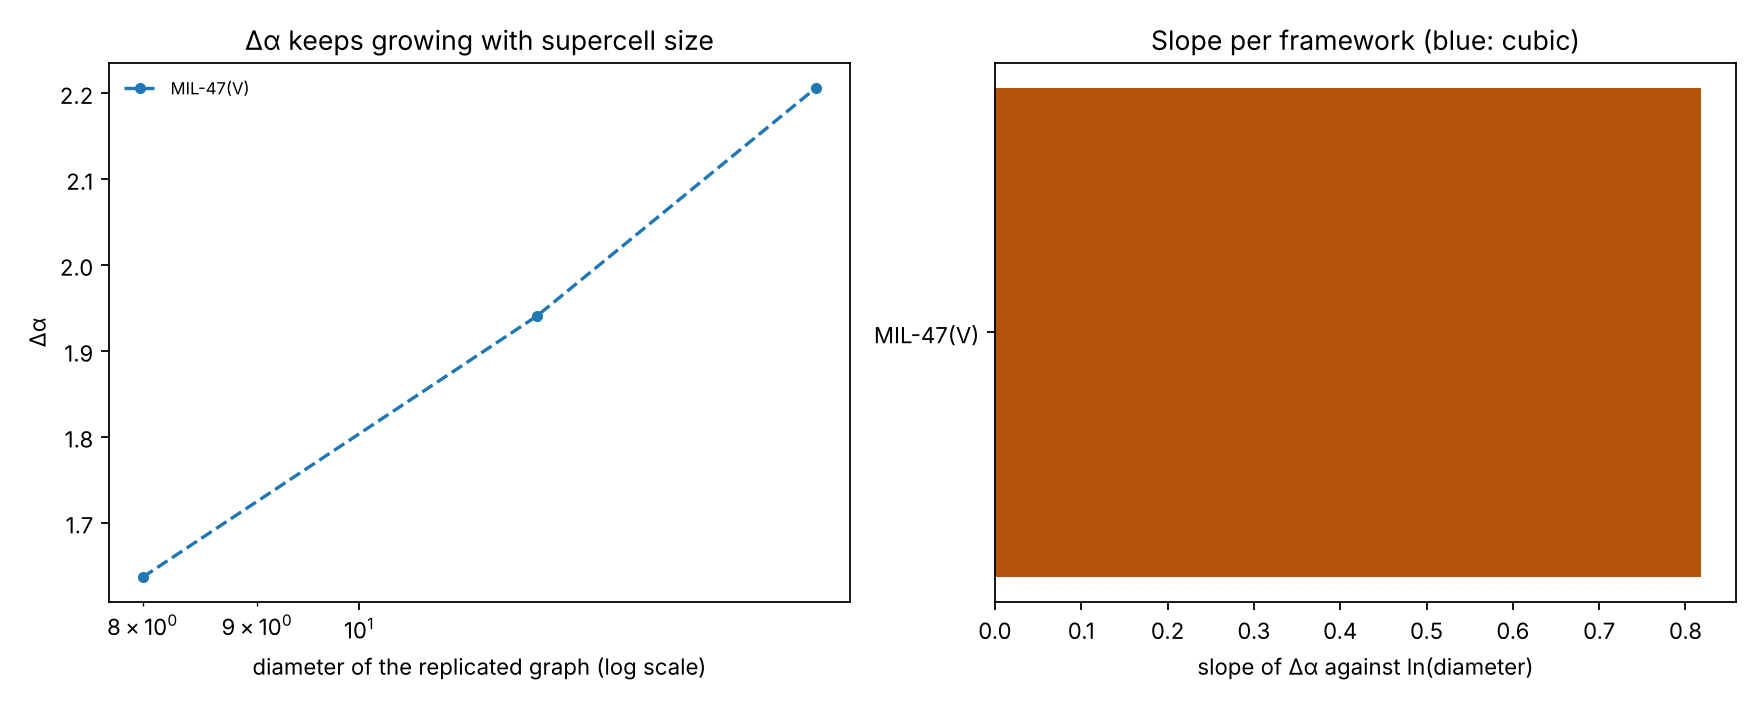
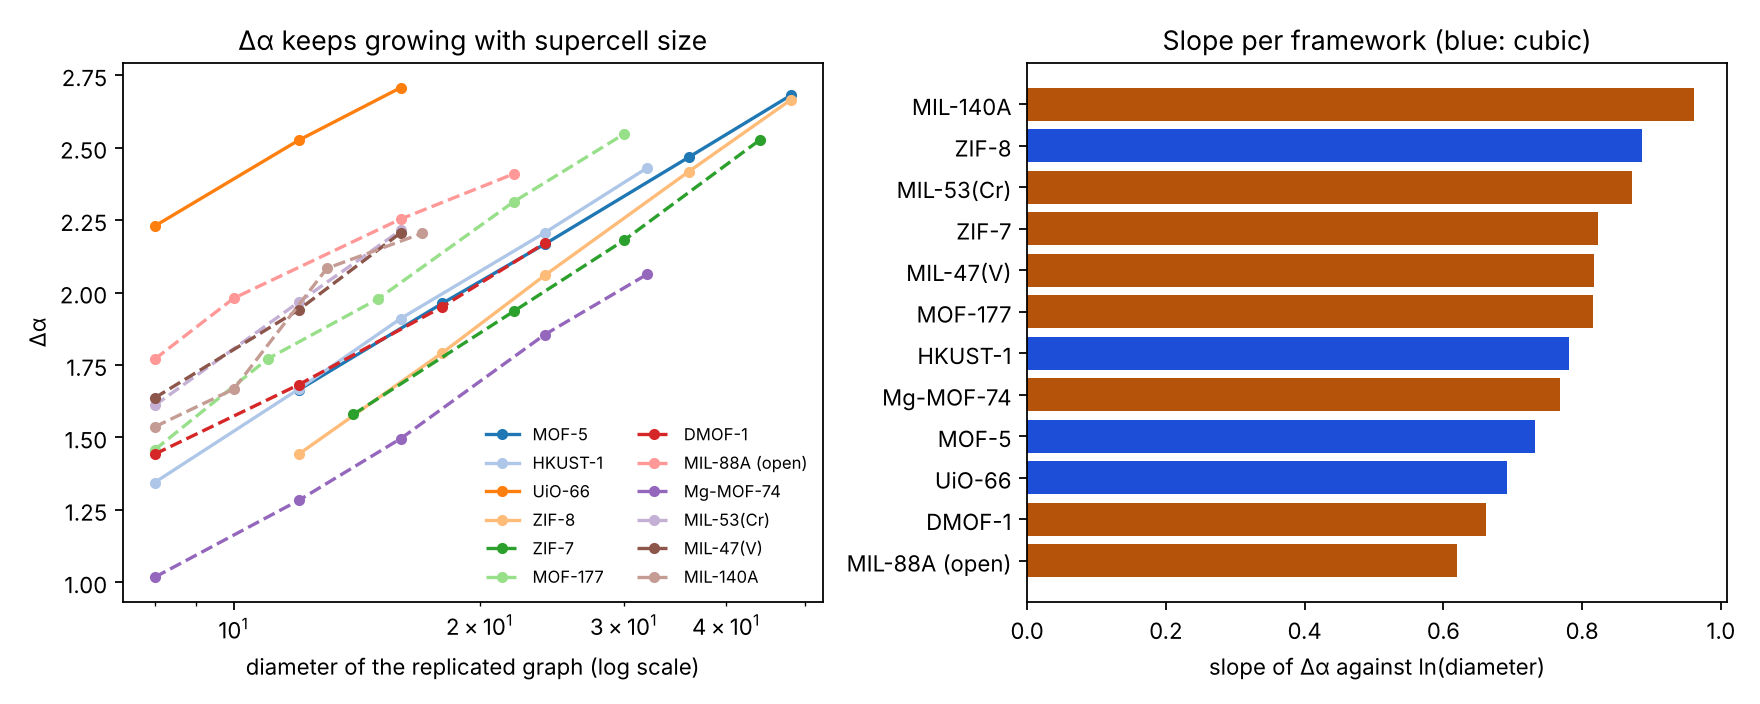
Twelve-framework size study: MIL-140A added, Results section written; all twelve keep growing with supercell size

diff --git a/website/results.html b/website/results.html
@@ -182,6 +182,47 @@
       <p style="font-size:13px;color:var(--muted2);margin-top:6px;">&Delta;&alpha; itself, at every diameter tested, is plotted in the figure above &mdash; not repeated here as text. The UiO-66 line rests on three supercells only (diameters 8, 12, 16), so its R&sup2; says little; the other three nets have five each (<code>data/spectrum_descriptors/size_scaling/convergence_sweep.json</code>).</p>
     </div>
 
+    <!-- diverse-set:start -->
+    <h3 class="sub-head" id="diverse-set">Twelve frameworks, not four</h3>
+    <p class="sd">The four demonstration nets are all cubic and all have finite clusters as nodes. The same sweep was rerun
+      (<code>code/spectrum_pipeline/code_20_diverse_set.py</code>, the same settings) on twelve frameworks that differ in metal
+      (Zn, Cu, Zr, Mg, Cr, V, Fe), node (single atom, paddlewheel, Zn<sub>4</sub>O, Zr<sub>6</sub>, Fe<sub>3</sub>O, infinite
+      metal&ndash;oxide chains), linker and lattice. The four original slopes are reproduced exactly. On every one of the
+      12 frameworks with at least three usable supercells, &Delta;&alpha; again grows as a straight line in ln(diameter)
+      (R&sup2; 0.949&ndash;1.000), and the drift between the two largest supercells is 5.5&ndash;13.7 %,
+      above the 5 % tolerance everywhere. The slope ranges from 0.62 to 0.96
+      (cubic 0.69&ndash;0.89; non-cubic 0.62&ndash;0.96). The conclusion above therefore does not
+      depend on having chosen four cubic nets: no framework in this set gives a &Delta;&alpha; that settles.</p>
+    <figure class="fig wide">
+      <img src="figures/diverse_set_figure.png" alt="Left: Delta-alpha against graph diameter on a log scale for twelve frameworks, every line rising. Right: the fitted slope for each framework, cubic in blue, non-cubic in orange.">
+      <figcaption>&Delta;&alpha; against the diameter of the replicated quotient graph for twelve frameworks (solid: cubic; dashed: non-cubic), and the fitted slope of each.
+        Generated by <code>code/spectrum_pipeline/code_20_diverse_set.py</code>; numbers in <code>data/spectrum_descriptors/size_scaling/diverse_set.json</code>.</figcaption>
+    <p class="provenance"><b>Source:</b> <a href="https://github.com/Radha-Krishna-19/fyp/blob/main/code/spectrum_pipeline/code_20_diverse_set.py"><code>code/spectrum_pipeline/code_20_diverse_set.py</code></a>; data: <a href="https://github.com/Radha-Krishna-19/fyp/blob/main/data/spectrum_descriptors/size_scaling/diverse_set.json"><code>data/spectrum_descriptors/size_scaling/diverse_set.json</code></a>.</p></figure>
+    <div class="table-wrap">
+      <table class="data-table" id="diverse-set-table">
+        <thead><tr><td>Structure</td><td>Node</td><td>Lattice</td><td>Node / linker blocks per cell</td><td>Node degree</td><td>Slope, &Delta;&alpha; vs ln(D)</td><td>Diameters</td><td>R&sup2;</td><td>Drift, last two</td></tr></thead>
+        <tbody>
+          <tr><td class="dt-label">MOF-5</td><td class="dt-note">Zn4O cluster</td><td class="dt-note">cubic</td><td class="dt-value">8 / 24</td><td class="dt-value">6</td><td class="dt-value">0.732</td><td class="dt-note">12&ndash;48</td><td class="dt-value">1.000</td><td class="dt-value">8.0 %</td></tr>
+          <tr><td class="dt-label">HKUST-1</td><td class="dt-note">Cu2 paddlewheel</td><td class="dt-note">cubic</td><td class="dt-value">6 / 8</td><td class="dt-value">4</td><td class="dt-value">0.782</td><td class="dt-note">8&ndash;32</td><td class="dt-value">0.999</td><td class="dt-value">9.2 %</td></tr>
+          <tr><td class="dt-label">UiO-66</td><td class="dt-note">Zr6 cluster</td><td class="dt-note">cubic</td><td class="dt-value">1 / 6</td><td class="dt-value">12</td><td class="dt-value">0.692</td><td class="dt-note">8&ndash;16</td><td class="dt-value">0.998</td><td class="dt-value">6.7 %</td></tr>
+          <tr><td class="dt-label">ZIF-8</td><td class="dt-note">single Zn atom</td><td class="dt-note">cubic</td><td class="dt-value">12 / 24</td><td class="dt-value">4</td><td class="dt-value">0.886</td><td class="dt-note">12&ndash;48</td><td class="dt-value">1.000</td><td class="dt-value">9.3 %</td></tr>
+          <tr><td class="dt-label">ZIF-7</td><td class="dt-note">single Zn atom</td><td class="dt-note">trigonal</td><td class="dt-value">18 / 36</td><td class="dt-value">4</td><td class="dt-value">0.824</td><td class="dt-note">14&ndash;44</td><td class="dt-value">0.999</td><td class="dt-value">13.7 %</td></tr>
+          <tr><td class="dt-label">MOF-177</td><td class="dt-note">Zn4O cluster</td><td class="dt-note">trigonal</td><td class="dt-value">8 / 16</td><td class="dt-value">6</td><td class="dt-value">0.816</td><td class="dt-note">8&ndash;30</td><td class="dt-value">0.997</td><td class="dt-value">9.2 %</td></tr>
+          <tr><td class="dt-label">DMOF-1</td><td class="dt-note">Zn2 paddlewheel</td><td class="dt-note">tetragonal</td><td class="dt-value">1 / 3</td><td class="dt-value">6</td><td class="dt-value">0.661</td><td class="dt-note">8&ndash;24</td><td class="dt-value">0.997</td><td class="dt-value">10.1 %</td></tr>
+          <tr><td class="dt-label">MIL-88A (open)</td><td class="dt-note">Fe3O trimer</td><td class="dt-note">hexagonal</td><td class="dt-value">2 / 6</td><td class="dt-value">6</td><td class="dt-value">0.619</td><td class="dt-note">8&ndash;22</td><td class="dt-value">0.986</td><td class="dt-value">6.5 %</td></tr>
+          <tr><td class="dt-label">Mg-MOF-74</td><td class="dt-note">Mg-O chain (rod)</td><td class="dt-note">trigonal</td><td class="dt-value">6 / 9</td><td class="dt-value">8</td><td class="dt-value">0.768</td><td class="dt-note">8&ndash;32</td><td class="dt-value">0.997</td><td class="dt-value">10.1 %</td></tr>
+          <tr><td class="dt-label">MIL-53(Cr)</td><td class="dt-note">Cr-OH chain (rod)</td><td class="dt-note">monoclinic</td><td class="dt-value">2 / 4</td><td class="dt-value">8</td><td class="dt-value">0.872</td><td class="dt-note">8&ndash;16</td><td class="dt-value">1.000</td><td class="dt-value">11.2 %</td></tr>
+          <tr><td class="dt-label">MIL-47(V)</td><td class="dt-note">V=O chain (rod)</td><td class="dt-note">orthorhombic</td><td class="dt-value">2 / 4</td><td class="dt-value">8</td><td class="dt-value">0.818</td><td class="dt-note">8&ndash;16</td><td class="dt-value">0.996</td><td class="dt-value">12.1 %</td></tr>
+          <tr><td class="dt-label">MIL-140A</td><td class="dt-note">Zr-O chain (rod)</td><td class="dt-note">monoclinic</td><td class="dt-value">2 / 8</td><td class="dt-value">12, 14</td><td class="dt-value">0.961</td><td class="dt-note">8&ndash;17</td><td class="dt-value">0.949</td><td class="dt-value">5.5 %</td></tr>
+        </tbody>
+      </table>
+    </div>
+    <p class="sd">In the four rod MOFs (Mg-MOF-74, MIL-53, MIL-47, MIL-140A) the metal&ndash;oxide chain is infinite; the decomposition cuts it
+      into one node block per cell, joined to the next along the chain, so their node degree counts linkers and chain neighbours together.
+      A framework with fewer than three supercells above the diameter-8 gate (or below the 25&nbsp;000-vertex cap) has no fitted slope.</p>
+    <!-- diverse-set:end -->
+
+
     <div class="callout warn" data-kind="Caveat">
     <b>Know what this dataset is.</b> All 77 structures are named <code>hMOF-###</code> &mdash; they come from the <b>hypothetical MOF</b> database: <b>computer-generated candidate structures that have never been synthesised</b>. The notebook requested <code>CoREMOF 2019</code>, which is experimental, but the server returned hMOF records and nothing verified it. A check was added so this cannot recur silently.
     <ul style="margin:8px 0 0 18px;">

diff --git a/website/_build/content_source.html b/website/_build/content_source.html
@@ -1117,6 +1117,43 @@
     </div>
 
     <!-- diverse-set:start -->
+    <h3 class="sub-head" id="diverse-set">Twelve frameworks, not four</h3>
+    <p class="sd">The four demonstration nets are all cubic and all have finite clusters as nodes. The same sweep was rerun
+      (<code>code/spectrum_pipeline/code_20_diverse_set.py</code>, the same settings) on twelve frameworks that differ in metal
+      (Zn, Cu, Zr, Mg, Cr, V, Fe), node (single atom, paddlewheel, Zn<sub>4</sub>O, Zr<sub>6</sub>, Fe<sub>3</sub>O, infinite
+      metal&ndash;oxide chains), linker and lattice. The four original slopes are reproduced exactly. On every one of the
+      12 frameworks with at least three usable supercells, &Delta;&alpha; again grows as a straight line in ln(diameter)
+      (R&sup2; 0.949&ndash;1.000), and the drift between the two largest supercells is 5.5&ndash;13.7 %,
+      above the 5 % tolerance everywhere. The slope ranges from 0.62 to 0.96
+      (cubic 0.69&ndash;0.89; non-cubic 0.62&ndash;0.96). The conclusion above therefore does not
+      depend on having chosen four cubic nets: no framework in this set gives a &Delta;&alpha; that settles.</p>
+    <figure class="fig wide">
+      <img src="figures/diverse_set_figure.png" alt="Left: Delta-alpha against graph diameter on a log scale for twelve frameworks, every line rising. Right: the fitted slope for each framework, cubic in blue, non-cubic in orange.">
+      <figcaption>&Delta;&alpha; against the diameter of the replicated quotient graph for twelve frameworks (solid: cubic; dashed: non-cubic), and the fitted slope of each.
+        Generated by <code>code/spectrum_pipeline/code_20_diverse_set.py</code>; numbers in <code>data/spectrum_descriptors/size_scaling/diverse_set.json</code>.</figcaption>
+    </figure>
+    <div class="table-wrap">
+      <table class="data-table" id="diverse-set-table">
+        <thead><tr><td>Structure</td><td>Node</td><td>Lattice</td><td>Node / linker blocks per cell</td><td>Node degree</td><td>Slope, &Delta;&alpha; vs ln(D)</td><td>Diameters</td><td>R&sup2;</td><td>Drift, last two</td></tr></thead>
+        <tbody>
+          <tr><td class="dt-label">MOF-5</td><td class="dt-note">Zn4O cluster</td><td class="dt-note">cubic</td><td class="dt-value">8 / 24</td><td class="dt-value">6</td><td class="dt-value">0.732</td><td class="dt-note">12&ndash;48</td><td class="dt-value">1.000</td><td class="dt-value">8.0 %</td></tr>
+          <tr><td class="dt-label">HKUST-1</td><td class="dt-note">Cu2 paddlewheel</td><td class="dt-note">cubic</td><td class="dt-value">6 / 8</td><td class="dt-value">4</td><td class="dt-value">0.782</td><td class="dt-note">8&ndash;32</td><td class="dt-value">0.999</td><td class="dt-value">9.2 %</td></tr>
+          <tr><td class="dt-label">UiO-66</td><td class="dt-note">Zr6 cluster</td><td class="dt-note">cubic</td><td class="dt-value">1 / 6</td><td class="dt-value">12</td><td class="dt-value">0.692</td><td class="dt-note">8&ndash;16</td><td class="dt-value">0.998</td><td class="dt-value">6.7 %</td></tr>
+          <tr><td class="dt-label">ZIF-8</td><td class="dt-note">single Zn atom</td><td class="dt-note">cubic</td><td class="dt-value">12 / 24</td><td class="dt-value">4</td><td class="dt-value">0.886</td><td class="dt-note">12&ndash;48</td><td class="dt-value">1.000</td><td class="dt-value">9.3 %</td></tr>
+          <tr><td class="dt-label">ZIF-7</td><td class="dt-note">single Zn atom</td><td class="dt-note">trigonal</td><td class="dt-value">18 / 36</td><td class="dt-value">4</td><td class="dt-value">0.824</td><td class="dt-note">14&ndash;44</td><td class="dt-value">0.999</td><td class="dt-value">13.7 %</td></tr>
+          <tr><td class="dt-label">MOF-177</td><td class="dt-note">Zn4O cluster</td><td class="dt-note">trigonal</td><td class="dt-value">8 / 16</td><td class="dt-value">6</td><td class="dt-value">0.816</td><td class="dt-note">8&ndash;30</td><td class="dt-value">0.997</td><td class="dt-value">9.2 %</td></tr>
+          <tr><td class="dt-label">DMOF-1</td><td class="dt-note">Zn2 paddlewheel</td><td class="dt-note">tetragonal</td><td class="dt-value">1 / 3</td><td class="dt-value">6</td><td class="dt-value">0.661</td><td class="dt-note">8&ndash;24</td><td class="dt-value">0.997</td><td class="dt-value">10.1 %</td></tr>
+          <tr><td class="dt-label">MIL-88A (open)</td><td class="dt-note">Fe3O trimer</td><td class="dt-note">hexagonal</td><td class="dt-value">2 / 6</td><td class="dt-value">6</td><td class="dt-value">0.619</td><td class="dt-note">8&ndash;22</td><td class="dt-value">0.986</td><td class="dt-value">6.5 %</td></tr>
+          <tr><td class="dt-label">Mg-MOF-74</td><td class="dt-note">Mg-O chain (rod)</td><td class="dt-note">trigonal</td><td class="dt-value">6 / 9</td><td class="dt-value">8</td><td class="dt-value">0.768</td><td class="dt-note">8&ndash;32</td><td class="dt-value">0.997</td><td class="dt-value">10.1 %</td></tr>
+          <tr><td class="dt-label">MIL-53(Cr)</td><td class="dt-note">Cr-OH chain (rod)</td><td class="dt-note">monoclinic</td><td class="dt-value">2 / 4</td><td class="dt-value">8</td><td class="dt-value">0.872</td><td class="dt-note">8&ndash;16</td><td class="dt-value">1.000</td><td class="dt-value">11.2 %</td></tr>
+          <tr><td class="dt-label">MIL-47(V)</td><td class="dt-note">V=O chain (rod)</td><td class="dt-note">orthorhombic</td><td class="dt-value">2 / 4</td><td class="dt-value">8</td><td class="dt-value">0.818</td><td class="dt-note">8&ndash;16</td><td class="dt-value">0.996</td><td class="dt-value">12.1 %</td></tr>
+          <tr><td class="dt-label">MIL-140A</td><td class="dt-note">Zr-O chain (rod)</td><td class="dt-note">monoclinic</td><td class="dt-value">2 / 8</td><td class="dt-value">12, 14</td><td class="dt-value">0.961</td><td class="dt-note">8&ndash;17</td><td class="dt-value">0.949</td><td class="dt-value">5.5 %</td></tr>
+        </tbody>
+      </table>
+    </div>
+    <p class="sd">In the four rod MOFs (Mg-MOF-74, MIL-53, MIL-47, MIL-140A) the metal&ndash;oxide chain is infinite; the decomposition cuts it
+      into one node block per cell, joined to the next along the chain, so their node degree counts linkers and chain neighbours together.
+      A framework with fewer than three supercells above the diameter-8 gate (or below the 25&nbsp;000-vertex cap) has no fitted slope.</p>
     <!-- diverse-set:end -->
 
 

diff --git a/website/team.html b/website/team.html
@@ -177,6 +177,8 @@
           <tr><td class="dt-label">4j</td><td class="dt-note">Team CIF-to-Wulff pipeline, steps 1&ndash;8: run outside Colab in static and relaxed modes on ZIF-8, HKUST-1, UiO-66 and Mg-MOF-74; eleven problems found (K1&ndash;K11), each with a script</td><td class="dt-note">Checked, 10 Nov 2026; K3 and K11 fixed, K1, K2, K4&ndash;K10 open; relaxed run incomplete (memory)</td><td class="dt-note"><a href="morphology_map.html#map-steps">Morphology map</a>, <code>code/morphology/steps1_8_check/</code></td></tr>
           <tr><td class="dt-label">4k</td><td class="dt-note">Morphology map (the team's idea made exact): every model as a point on the exact cubic map; three tests against laboratory series; possible morphologies of a given CIF; dimension profile along the map</td><td class="dt-note" style="color:var(--good)">Done, 10 Nov 2026: six of six series follow the predicted order; the condition model is a first attempt</td><td class="dt-note"><a href="morphology_map.html">Morphology map</a>, <code>code/morphology/morphology_map/</code></td></tr>
           <tr><td class="dt-label">4l</td><td class="dt-note">Every step from a CIF to a shape for the guide: lattice, centring and point group from the atoms, structure factors, BFDH distances, the shape cut plane by plane with each cut explained, Python and browser in agreement</td><td class="dt-note" style="color:var(--good)">Done, 11&ndash;12 Nov 2026</td><td class="dt-note"><a href="cif_to_shape.html">From a CIF to a shape</a>, <code>code/morphology/run_cif_to_shape.py</code></td></tr>
+          <tr><td class="dt-label">4m</td><td class="dt-note">Crystal shape for any lattice: symmetry from the atoms, BFDH and the habit (compact, rod, plate, lath) for hexagonal, trigonal, tetragonal, orthorhombic and monoclinic MOFs; RASPA2 survey of 93 MOF files</td><td class="dt-note" style="color:var(--good)">Done, 12 Nov 2026</td><td class="dt-note"><a href="cif_to_shape.html#c2s-any">From a CIF to a shape</a>, <code>code/morphology/run_general_shape.py</code></td></tr>
+          <tr><td class="dt-label">4n</td><td class="dt-note">Diverse set of twelve MOFs (eight added: ZIF-7, MOF-177, DMOF-1, MIL-88A, Mg-MOF-74, MIL-53, MIL-47, MIL-140A) on the graph pages and in the size study of &Delta;&alpha;; the energy models and the laboratory comparison still cover only the first four</td><td class="dt-note" style="color:var(--good)">Done for the graph and BFDH stages, 12 Nov 2026</td><td class="dt-note"><a href="results.html#diverse-set">Results</a>, <code>code/spectrum_pipeline/code_20_diverse_set.py</code></td></tr>
           <tr><td class="dt-label">4e</td><td class="dt-note">DFT check of six slabs: MOF-5 and UiO-66, where CHGNet and UFF disagree, and HKUST-1 as a control</td><td class="dt-note">Planned; needs HPC time (asked of the guide, 10 Nov 2026)</td><td class="dt-note"><a href="https://github.com/Radha-Krishna-19/fyp/blob/main/code/morphology/DFT_CHECK_PLAN.md">DFT_CHECK_PLAN.md</a></td></tr>
           <tr><td class="dt-label">&mdash;</td><td class="dt-note">Teaching page for newcomers: every concept from scratch, with figures</td><td class="dt-note" style="color:var(--good)">Done</td><td class="dt-note"><a href="learn_shape.html">Learn</a></td></tr>
           <tr><td class="dt-label">5</td><td class="dt-note">Growth model with solvent, modulator and temperature; more MOFs with known shapes</td><td class="dt-note">Planned</td><td class="dt-note">&mdash;</td></tr>

diff --git a/website/_build/figure_sources.py b/website/_build/figure_sources.py
@@ -29,6 +29,7 @@ FIGURE_SOURCES = {
     'figures/fig11_real_spectra61.png': (NB + 'real_mof_band.ipynb, step 9', NB + 'real_results.json'),
     'figures/fig12_size_strata.png': ('code/spectrum_pipeline/_make_strata_figure.py', SS + 'size_strata.json and data/spectrum_descriptors/independent_cg_run/independent_cg_run_76_hmof.csv'),
     'figures/fig13_convergence.png': (SS + 'make_convergence_figure.py', SS + 'convergence_sweep.json (code/spectrum_pipeline/_run_size_scaling.py)'),
+    'figures/diverse_set_figure.png': ('code/spectrum_pipeline/code_20_diverse_set.py', SS + 'diverse_set.json'),
     'figures/fig14_slope_sweep.png': (SS + 'make_slope_figure.py', SS + 'slope_sweep_hmof.json and slope_sweep_core.json (code_15_dataset_sweeps.py)'),
     'figures/fig15_full_band.png': (SS + 'make_full_band_figure.py', SS + 'full_band_hmof_cg.json and full_band_core_cg.json (code_17_full_correct_band.py)'),
     'figures/fig16_full_band_vs_size.png': (SS + 'make_full_band_figure.py', SS + 'full_band_hmof_cg.json and full_band_core_cg.json'),
